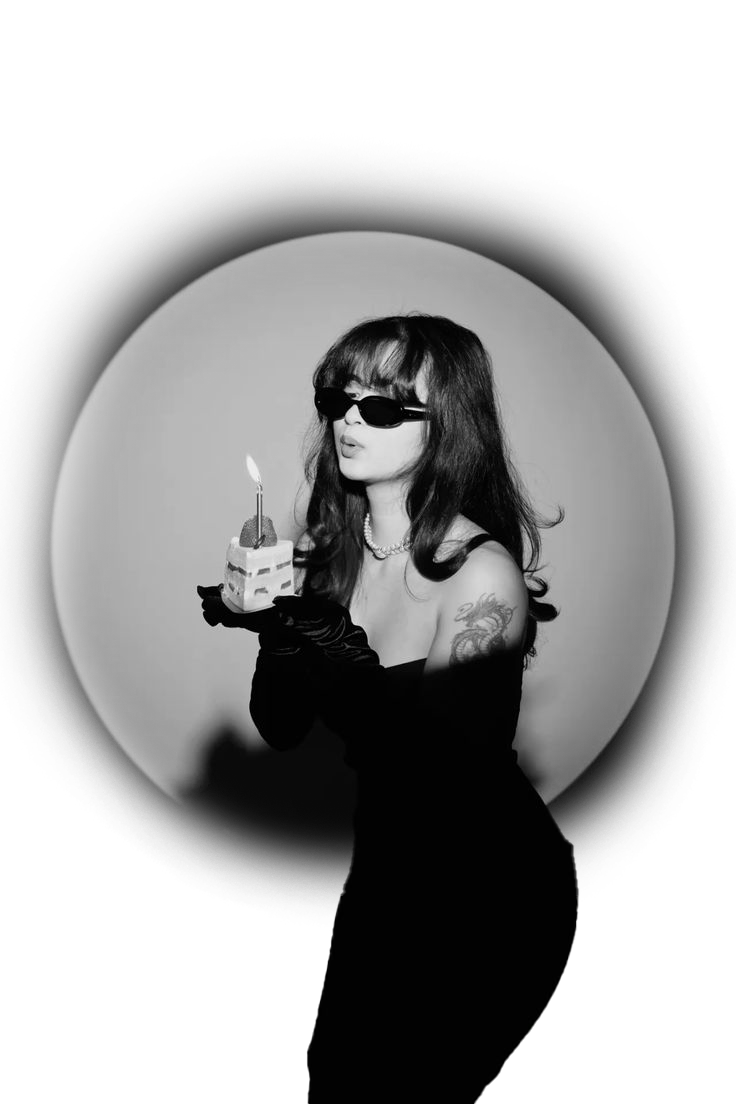
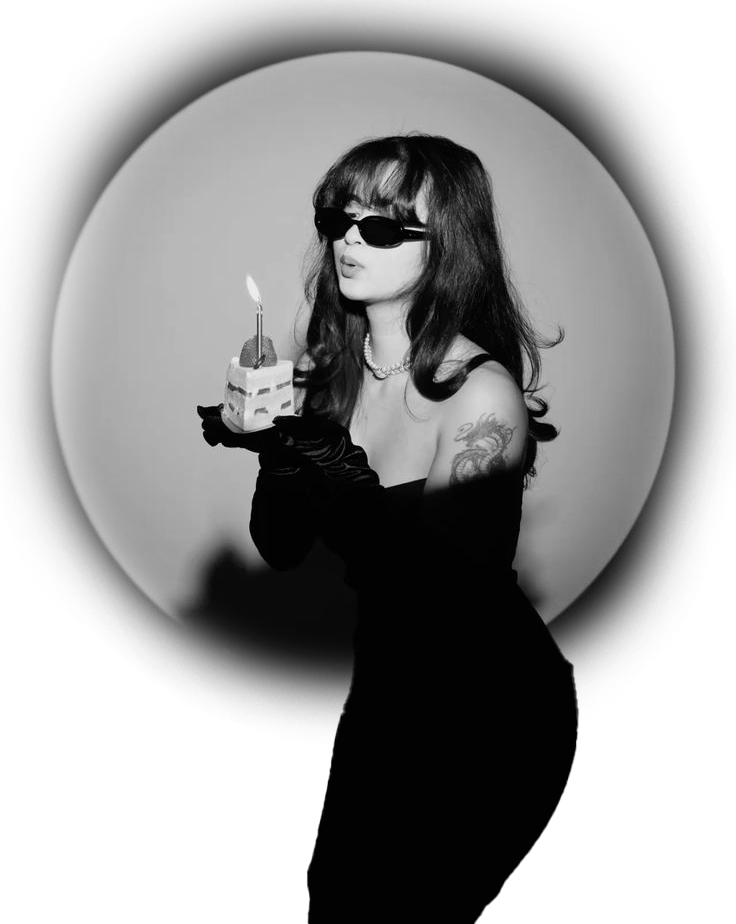
minor tweaks new hero photo/ img adjustments/ slow rotate for animation

diff --git a/style.css b/style.css
@@ -19,19 +19,18 @@ body {
 main{
   background-color:#1A1A1A;
   margin-top: -5px;
-  min-height: 100vh;
 }
 
 
 nav {
   background-color:#1A1A1A;
   padding: 1rem 0;
-  margin-top: 1rem;
+  margin-top: 0;
   font-family: "Staatliches", sans-serif;
   display: flex;
   align-items: center;
   gap: 3rem;
-  margin-bottom: 2%;
+  margin-bottom: 0;
 }
 
 .nav-logo {
@@ -61,13 +60,17 @@ nav a:hover {
 .hero-container {
   position: relative;
   width: 100%;
-  margin-top: -10rem;
+  min-height: 100vh;
+  margin-top: -2rem;
+  display: flex;
+  align-items: center;
+  justify-content: center;
 }
 
 .hero-text {
   position: absolute;
   left: 8%;
-  top: 25%;
+  top: 15%;
   color: white;
 }
 
@@ -89,17 +92,6 @@ nav a:hover {
   animation: slowRotate 10s ease-in-out infinite;
 }
 
-@keyframes slowRotate {
-  0%, 100% {
-    transform: rotate(0deg);
-  }
-  25% {
-    transform: rotate(1.5deg);
-  }
-  75% {
-    transform: rotate(-1.5deg);
-  }
-}
 
 .hero-text p {
   font-size: 140%;
@@ -122,11 +114,11 @@ font-family: "Staatliches", sans-serif;
 }
 
 .hero-image {
-  width: 100%;
+  width: 90%;
   display: flex;
   justify-content: flex-end;
   align-items: right;
-  margin-top: -140px;
+  margin-top: -160px;
 }
 
 .hero-image img {
@@ -147,3 +139,14 @@ font-family: "Staatliches", sans-serif;
 
 
 
+@keyframes slowRotate {
+  0%, 100% {
+    transform: rotate(0deg);
+  }
+  25% {
+    transform: rotate(1.5deg);
+  }
+  75% {
+    transform: rotate(-1.5deg);
+  }
+}

diff --git a/index.html b/index.html
@@ -52,8 +52,8 @@
           <span>13 Brooklyn rooftop, NYC</span>
         </div>
       </div>
-      <div class="hero-image">
-        <img src="assets/cropped 2.0.png" alt="birthday girl photo with cake">
+      <div class="hero-image">\
+        <img src="assets/bf5f812946fc724e3f95b25b50f92078-1.png" alt="birthday girl photo with cake">
       </div>
     </div>
   </main>
